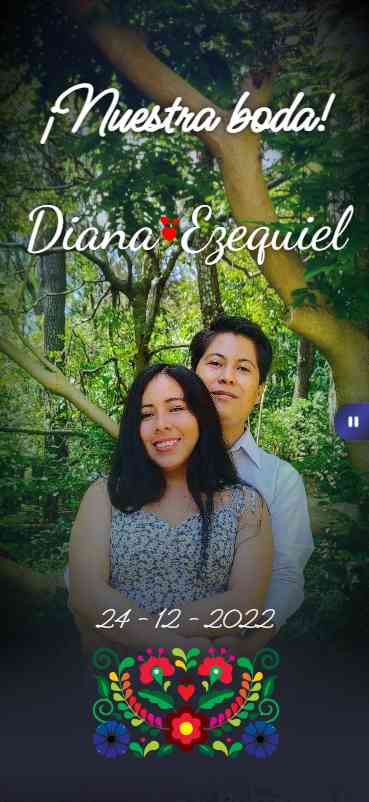
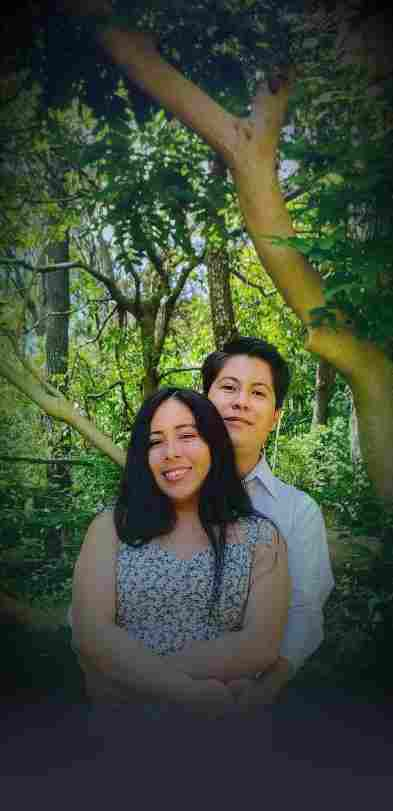
se coloco una imagen mini

diff --git a/styles/App.scss b/styles/App.scss
@@ -5,7 +5,7 @@ $rojo: rgb(255, 0, 0);
 $azulRey: rgb(62 63 160);
 $azulReyT: rgba(62, 64, 160, 0.7);
 $fotoFondo: url('../public/parejaBosque.jpg');
-$fotoFondoMediano: url('../public/parejaBosqueMedianoMin.jpg');
+$fotoFondoMediano: url('../public/parejaBosqueMedianoMin-compressed.jpg');
 $fotoFondoMini: url('../public/parejaBosqueMin.jpg');
 $white: #ffffff;
 
@@ -233,7 +233,7 @@ $white: #ffffff;
     linear-gradient(transparent, transparent, transparent, transparent, transparent, transparent, $primary),
     linear-gradient(rgba(132, 0, 255, 0.181), transparent, $primary),
     radial-gradient(transparent, rgba(0, 128, 83, 0.4)),
-    $fotoFondoMediano;
+    $fotoFondoMediano, $fotoFondoMini;
 
   @media (min-width: 768px) {
     background-image: linear-gradient($primary, transparent, transparent, transparent, transparent, $primary),
